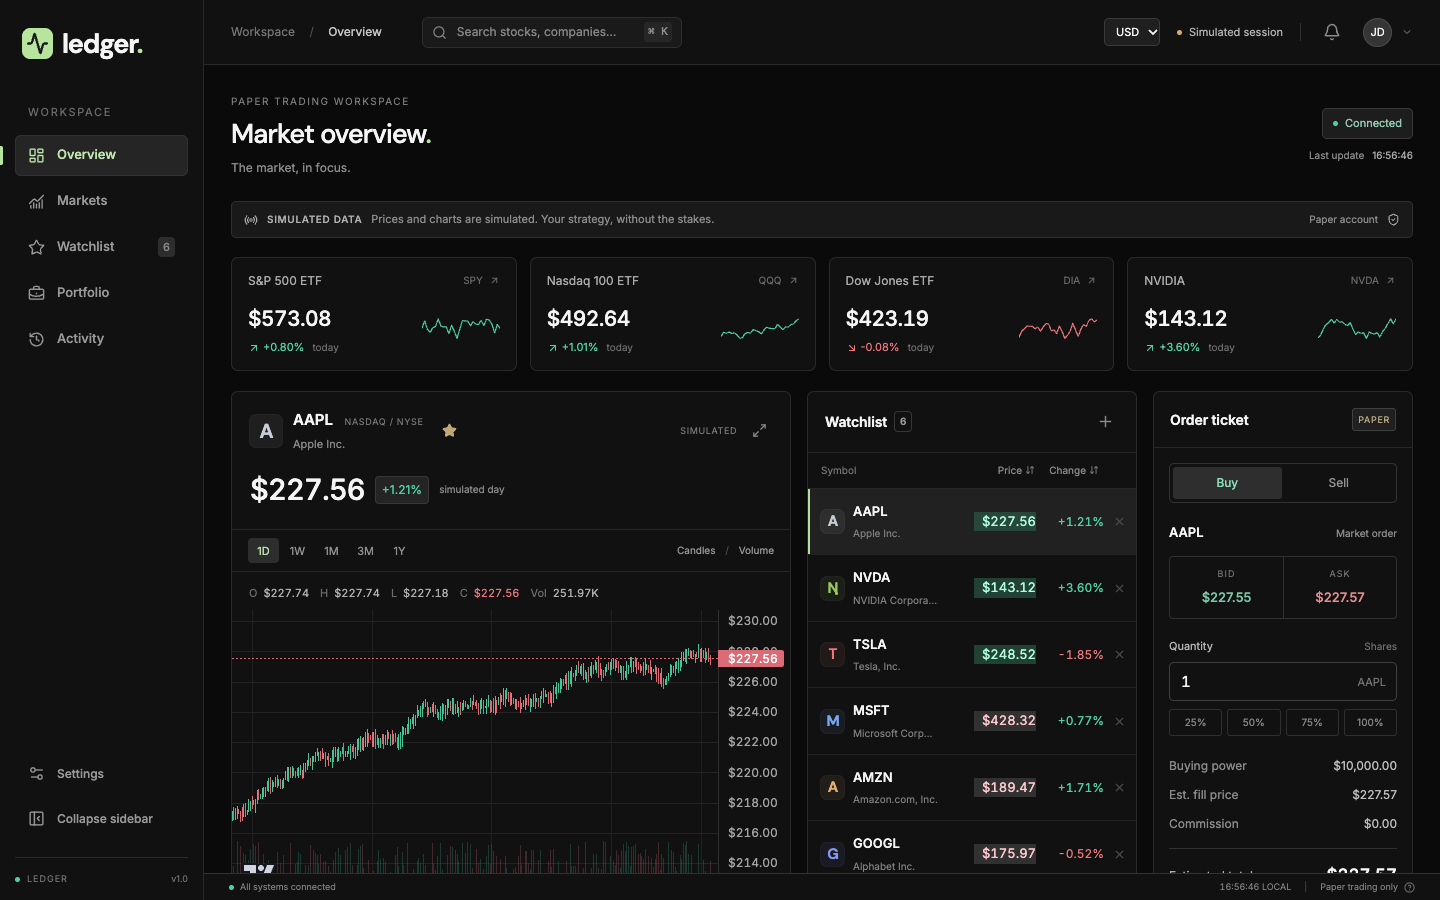
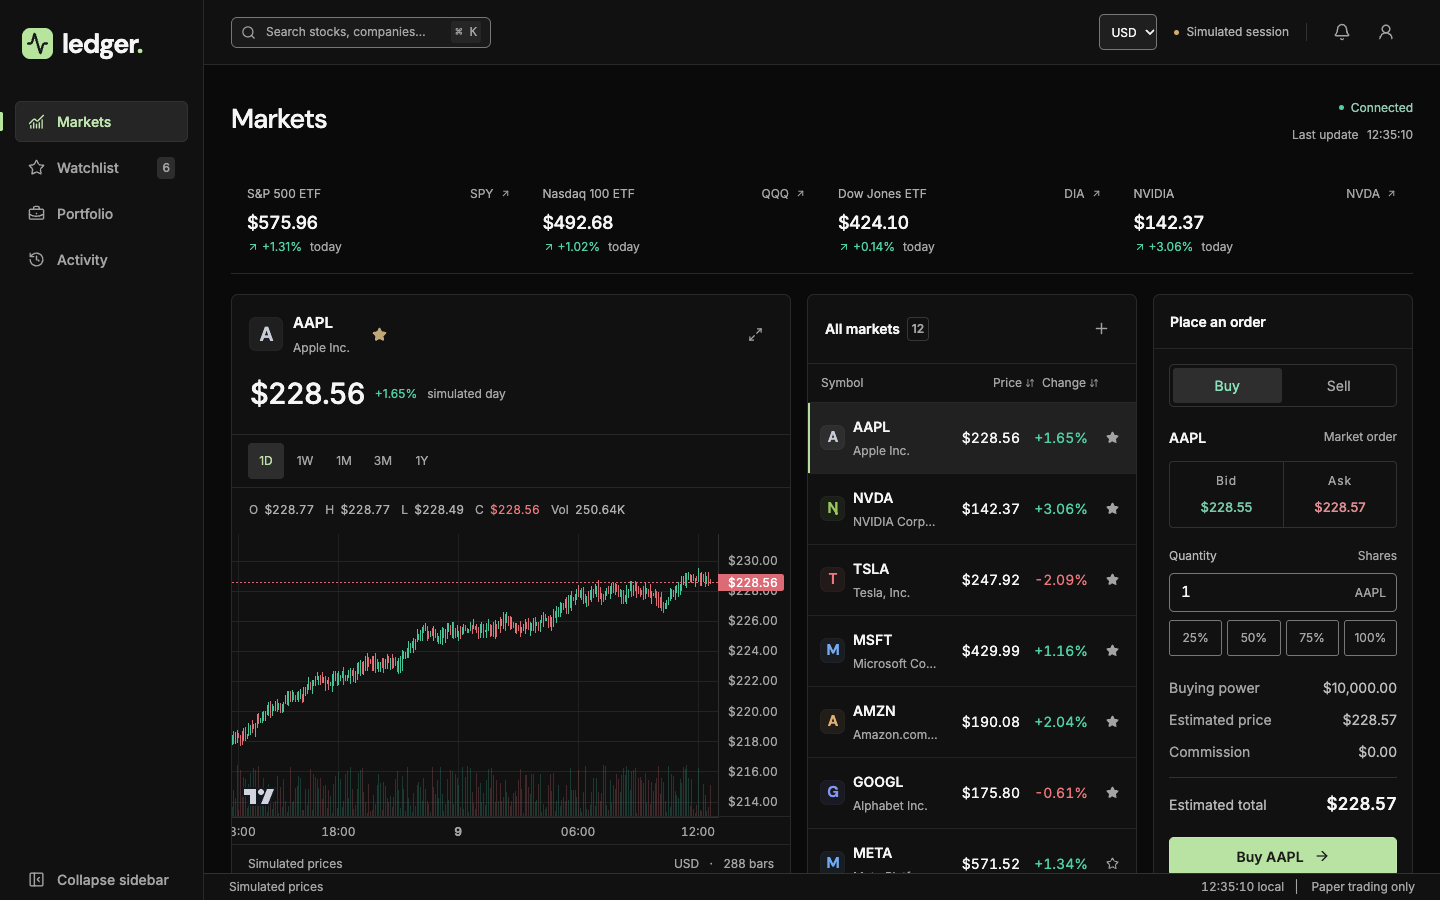
update image

diff --git a/index.html b/index.html
@@ -76,7 +76,7 @@
         <div class="projectsContainer projectCarousel" id="project-carousel" role="region"
             aria-roledescription="carousel" aria-label="Featured projects" tabindex="0">
             <div class="project">
-                <img src="./images/pulse-trading.png" alt="Ledger dashboard with a candlestick chart, stock watchlist and paper trading order ticket">
+                <img src="./images/pulse-trading.png" alt="Ledger markets dashboard with a candlestick chart, stock prices and paper trading order form">
                 <h2 class="projectTitle">Ledger</h2>
                 <p class="projectDescription">A high-frequency paper trading dashboard built with Vue 3 and TypeScript.
                     Optimised rendering cycles and memory management to stream real-time WebSocket price feeds smoothly
